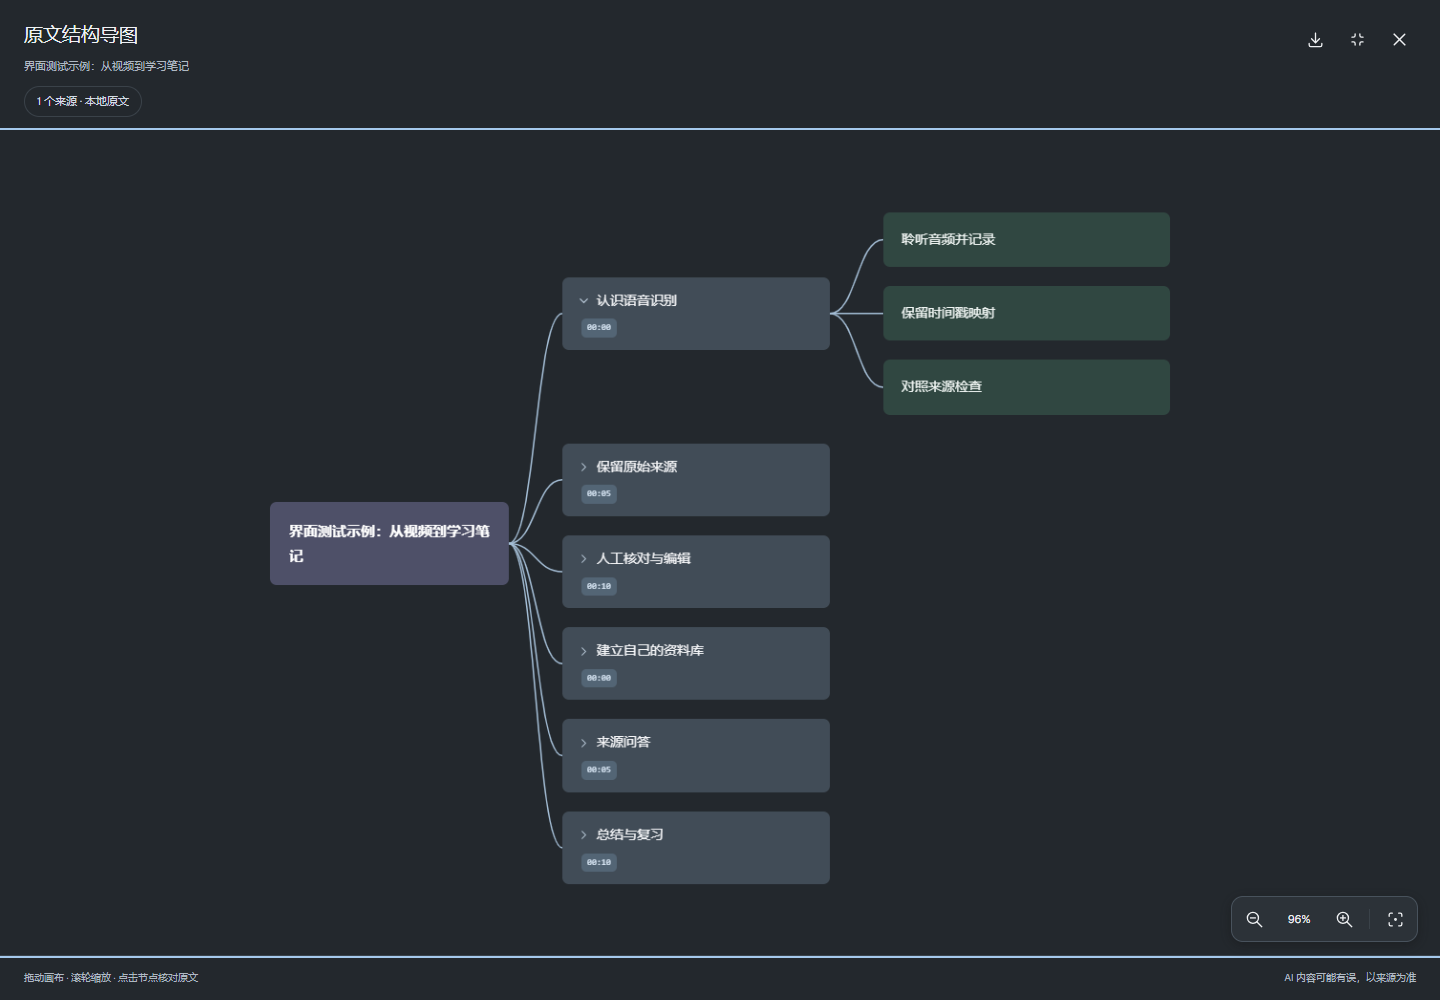
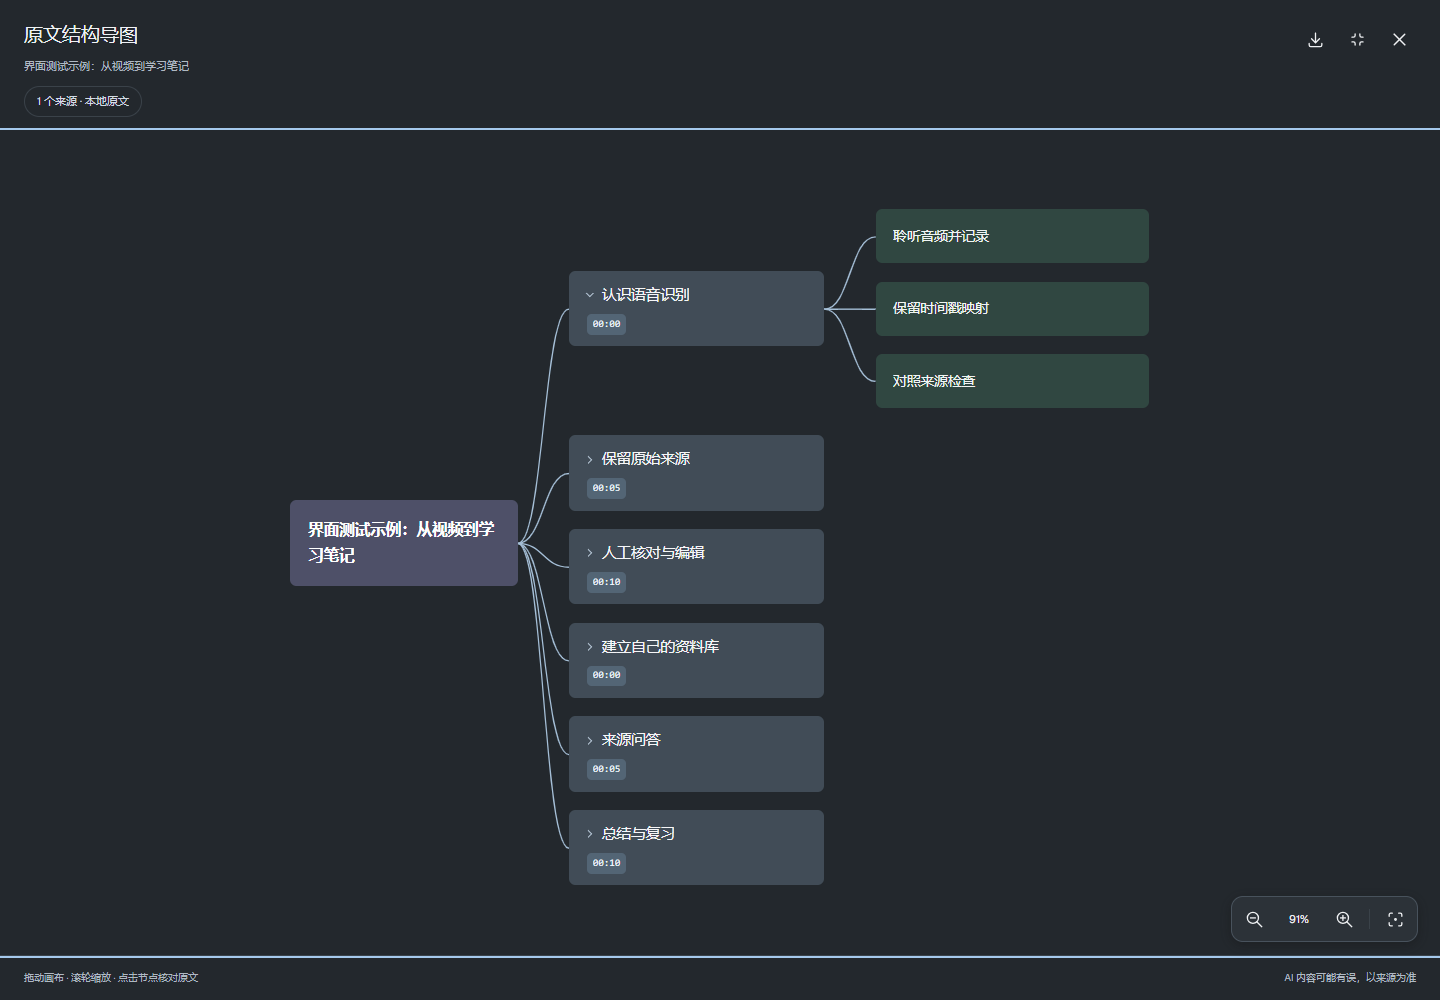
Render mind-map text sharply with native layout zoom

diff --git a/frontend/app/globals.css b/frontend/app/globals.css
@@ -139,21 +139,21 @@ progress { accent-color:var(--accent); width:90px; height:5px; }
 .map-viewer .map-canvas { flex:1; min-height:0; height:auto; overflow:hidden; position:relative; cursor:grab; touch-action:none; background:#23282d; }
 .map-canvas[data-dragging] { cursor:grabbing; }
 .map-canvas[data-dragging] * { cursor:grabbing!important; user-select:none; }
-.map-viewer .map-tree { position:absolute; left:0; top:0; min-width:0; padding:38px; transform-origin:0 0; will-change:transform; user-select:none; }
+.map-viewer .map-tree { position:absolute; left:0; top:0; min-width:0; padding:38px; user-select:none; }
 .map-tree .map-links { position:absolute; inset:0; width:100%; height:100%; overflow:visible; pointer-events:none; }
 .map-links path { fill:none; stroke:#a5bfd7; stroke-width:1.5; }
 .map-tree [data-map-node] { position:relative; z-index:1; }
 .map-viewer .mindmap-tree ul { padding-left:56px; }
 .map-viewer .mindmap-tree li { padding:10px 0; }
 .map-viewer .mindmap-tree li::before,.map-viewer .mindmap-tree li::after { display:none; }
-.map-viewer .mindmap-root { width:250px; border:0; border-radius:7px; padding:18px 20px; font-size:15px; line-height:1.7; color:#fff; background:#4e5068; }
+.map-viewer .mindmap-root { width:250px; border:0; border-radius:7px; padding:18px 20px; font-size:17px; line-height:1.7; color:#fff; background:#4e5068; }
 .map-viewer .mindmap-branch { width:280px; padding:13px 15px; border:0; border-radius:7px; background:#414c57; }
-.map-viewer .mindmap-branch>button { font-size:14px; line-height:1.7; align-items:center; color:#f5f6f8; }
+.map-viewer .mindmap-branch>button { font-size:16px; line-height:1.7; align-items:center; color:#f5f6f8; }
 .map-viewer .mindmap-branch>button>svg { flex-shrink:0; color:#c7d8e8; }
-.map-viewer .mindmap-leaf { width:300px; padding:15px 18px; border:1px solid transparent; border-radius:7px; color:#f0f5f3; background:#304741; font-size:14px; line-height:1.8; }
+.map-viewer .mindmap-leaf { width:300px; padding:15px 18px; border:1px solid transparent; border-radius:7px; color:#f0f5f3; background:#304741; font-size:15px; line-height:1.8; }
 .map-viewer .mindmap-leaf:hover { background:#3d5a50; border-color:#a6cbbd; }
 .map-viewer .learning-citations { margin-top:7px; }
-.map-viewer .learning-citations button { color:#d9e7f5; background:#536575; font-size:9px; }
+.map-viewer .learning-citations button { color:#eef5fc; background:#536575; font-size:11px; }
 .map-navigation { align-self:flex-end; position:relative; z-index:2; display:flex; align-items:center; gap:4px; flex-shrink:0; padding:5px; margin:-57px 22px 13px; background:#2c3238; border:1px solid #48525c; border-radius:12px; box-shadow:0 3px 12px #1116; }
 .map-navigation .icon-button { width:34px; height:34px; }
 .map-navigation>span { width:1px; height:20px; background:var(--line); margin:0 4px; }

diff --git a/frontend/app/mindmap-viewer.tsx b/frontend/app/mindmap-viewer.tsx
@@ -25,7 +25,14 @@ export function MindMapViewer({ open, onClose, title, map, onLocate, onExport }:
   // Continuous pan updates stay outside React: nodes do not rerender per pointer move.
   const paint = useCallback(() => {
     const { x, y, scale } = pose.current;
-    if (tree.current) tree.current.style.transform = `translate3d(${x}px,${y}px,0) scale(${scale})`;
+    if (tree.current) {
+      // Layout zoom rerasterizes glyphs at the requested size instead of stretching
+      // a cached GPU text layer. Snap panning to device pixels as well.
+      const pixel = window.devicePixelRatio || 1;
+      tree.current.style.zoom = String(scale);
+      tree.current.style.left = `${Math.round(x * pixel) / pixel / scale}px`;
+      tree.current.style.top = `${Math.round(y * pixel) / pixel / scale}px`;
+    }
     if (scaleLabel.current) scaleLabel.current.textContent = `${Math.round(scale * 100)}%`;
   }, []);
   const fit = useCallback(() => {

diff --git a/README.md b/README.md
@@ -6,9 +6,9 @@
 
 ![BiliLM 宣传海报](docs/assets/bililm-poster.png)
 
-> **公开预览版 v0.1.1** · Windows 11 本机使用 · 中文界面。日常工作流已验证；尚无人工真值评测结果，不承诺识别准确率。上图为宣传示意。与 Bilibili、NotebookLM、DeepSeek 无官方隶属关系。
+> **公开预览版 v0.1.2** · Windows 11 本机使用 · 中文界面。日常工作流已验证；尚无人工真值评测结果，不承诺识别准确率。上图为宣传示意。与 Bilibili、NotebookLM、DeepSeek 无官方隶属关系。
 
-[下载预览版](https://github.com/WeipingWu2023/BiliLM/releases/tag/v0.1.1) · [从零使用教程](docs/GETTING-STARTED-ZH.md) · [常见问题](docs/TROUBLESHOOTING.md) · [发布审计](docs/RELEASE-AUDIT.md) · [参与贡献](CONTRIBUTING.md)
+[下载预览版](https://github.com/WeipingWu2023/BiliLM/releases/tag/v0.1.2) · [从零使用教程](docs/GETTING-STARTED-ZH.md) · [常见问题](docs/TROUBLESHOOTING.md) · [发布审计](docs/RELEASE-AUDIT.md) · [参与贡献](CONTRIBUTING.md)
 
 <details>
 <summary>查看真实界面（空资料库，不含私人来源）</summary>
@@ -20,6 +20,8 @@
 ![导图全屏画布](docs/assets/mindmap-desktop.png)
 
 导图截图使用明确标注的合成界面夹具，不是真实视频文字、模型准确率证据或人工真值。支持曲线连线、全屏、拖动、滚轮缩放及键盘操作。
+
+v0.1.2 使用原生布局缩放改善放大时的文字清晰度，增大节点与时间戳字号。[200% 文字特写](docs/assets/mindmap-text-200.png)。
 
 </details>
 

diff --git a/CHANGELOG.md b/CHANGELOG.md
@@ -1,5 +1,11 @@
 # 更新记录
 
+## v0.1.2（公开预览）
+
+- 导图从 GPU 整层 transform 缩放改为原生布局 zoom，避免放大文字缓存位图；平移按设备像素对齐。
+- 增大节点文字与时间戳字号；保留全屏、拖动、鼠标锚点缩放、适应窗口和引用。
+- Edge 标准/高 DPI（DPR 1/2）的 100%/200% 文字布局与原有交互检查通过，增加清晰度特写。
+
 ## v0.1.1（公开预览）
 
 - 修复 SenseVoice 可选依赖与核心 NumPy 的版本冲突，增加批量准备高级模型的本地脚本。
